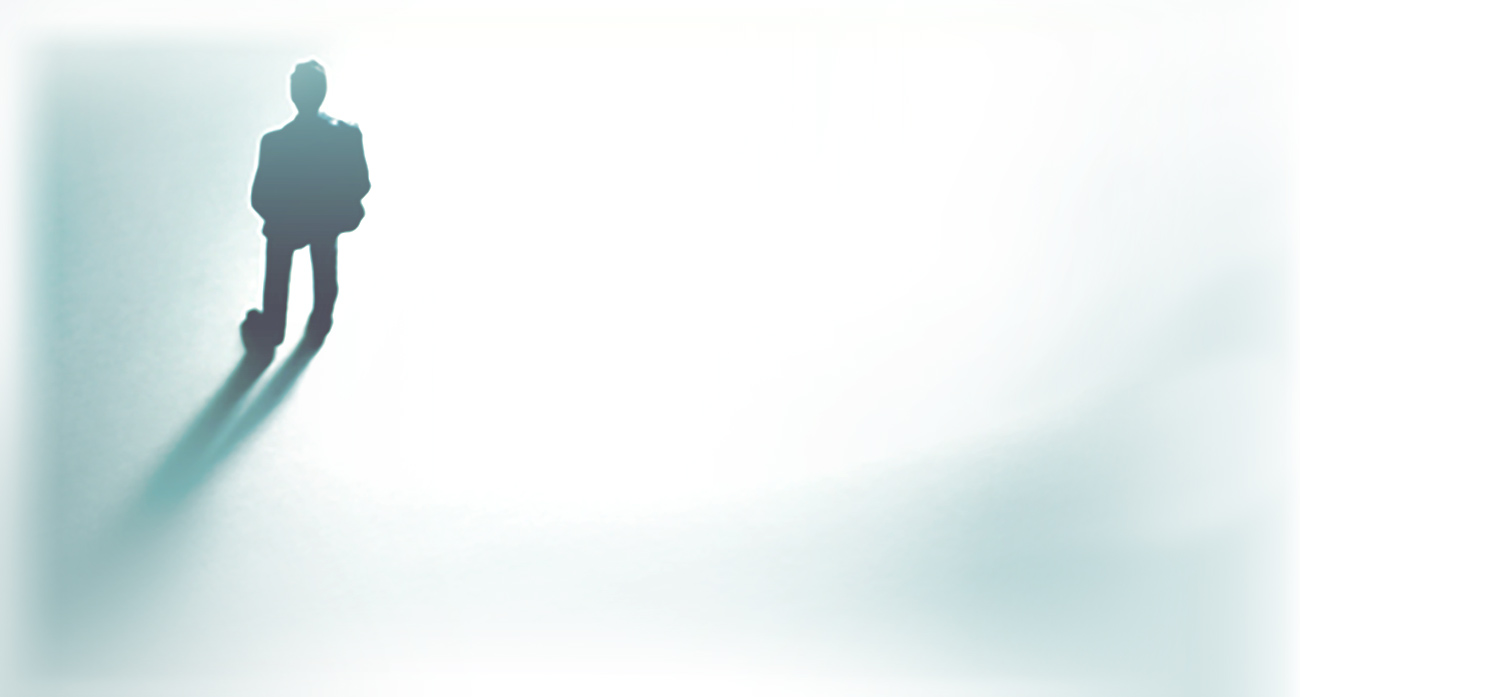
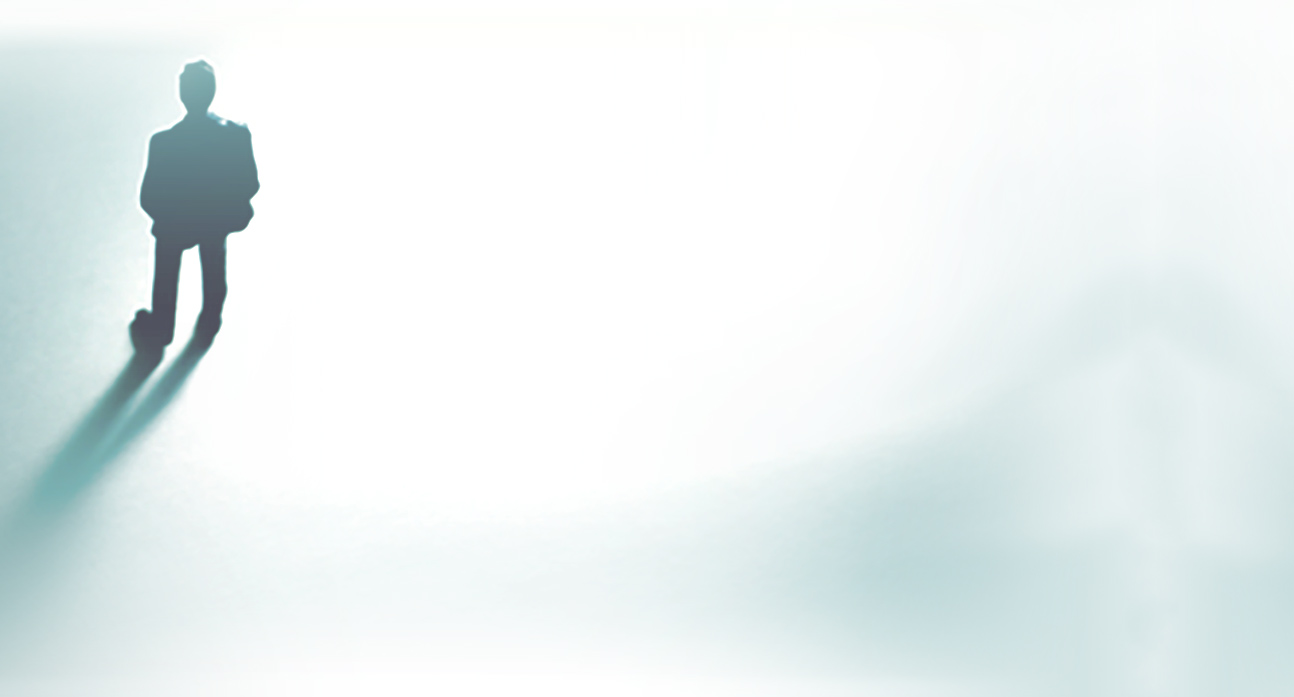
background

Changed region(s): [[0.0, 0.0603, 0.2473, 0.9943], [0.8346, 0.3615, 1.0, 1.0]]

diff --git a/web/stylesheets/main.css b/web/stylesheets/main.css
@@ -1,6 +1,6 @@
 body {
   /*background: #fff url(https://s17.postimg.org/8kd73xzvz/ubm_like_bg.jpg) no-repeat;*/
-  background: #fff url(https://s9.postimg.org/pan28nkjz/ubm_like_bg1.jpg) no-repeat;
+  background: #fff url(https://s14.postimg.org/4891y6ptt/ubm_like_bg1.jpg) no-repeat;
   font: 0.75em Arial,Helvetica,Verdana;
   color: #58585a;
   line-height: 1.3;
